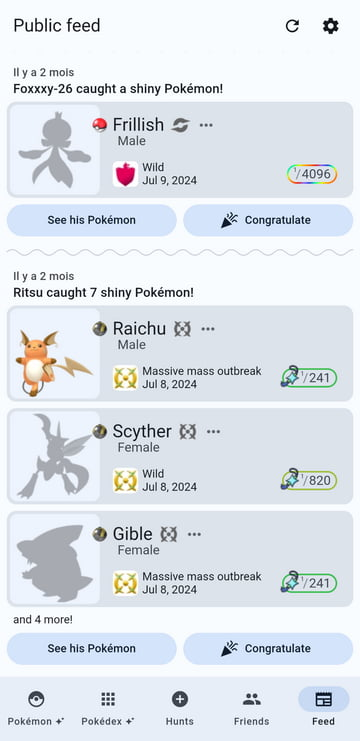
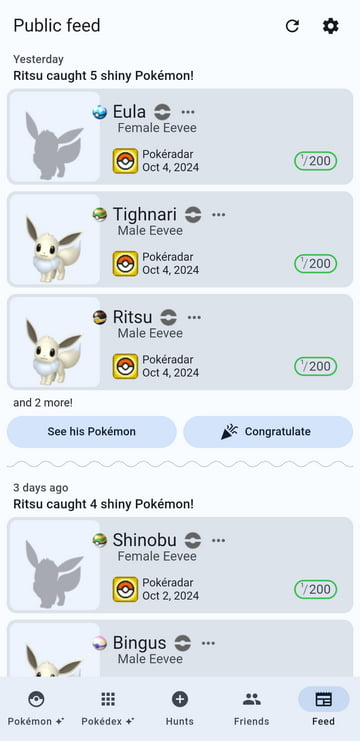
Fix public feed relative date translation

diff --git a/src/modules/components/feed-card/feedCard.ts b/src/modules/components/feed-card/feedCard.ts
@@ -105,12 +105,8 @@ export class feedCard extends HTMLElement {
 		card.appendChild(usernameContainer);
 
 		const dateContainer = document.createElement('time');
-		dateContainer.setAttribute('datetime', day);
 		dateContainer.setAttribute('slot', 'relative-date');
-		const relativeDate = formatRelativeNumberOfDays(
-			dateDifference(new Date(Date.now()), new Date(day))
-		);
-		dateContainer.innerHTML = relativeDate.slice(0, 1).toLocaleUpperCase() + relativeDate.slice(1);
+		this.populateRelativeDate(day, dateContainer);
 		card.appendChild(dateContainer);
 
 		const quantityContainer = document.createElement('span');
@@ -154,6 +150,14 @@ export class feedCard extends HTMLElement {
 	}
 
 
+	static populateRelativeDate(day: ISODay, container: HTMLElement, locale?: string) {
+		const numberOfDays = dateDifference(new Date(Date.now()), new Date(day));
+		container.setAttribute('datetime', day);
+		const relativeDate = formatRelativeNumberOfDays(numberOfDays, locale);
+		container.innerHTML = relativeDate.slice(0, 1).toLocaleUpperCase() + relativeDate.slice(1);
+	}
+
+
 	getRenderingComplete() {
 		return new Promise(resolve => {
 		  if (!this.rendering) return resolve(true);
@@ -176,6 +180,15 @@ export class feedCard extends HTMLElement {
 		switch (attr) {
 			case 'lang':
 				translationObserver.translate(this, newValue ?? '');
+
+				// We translate the relative date too
+				const dateContainer = this.querySelector('time');
+				if (dateContainer) {
+					const day: ISODay | null = dateContainer.getAttribute('datetime') as ISODay | null;
+					if (day) {
+						feedCard.populateRelativeDate(day, dateContainer, newValue ?? undefined);
+					}
+				}
 				break;
 
 			case 'type': {

diff --git a/src/modules/translation.ts b/src/modules/translation.ts
@@ -116,11 +116,11 @@ export const translationObserver = new TranslationObserver();
 
 /////////////////////////////////////////////////
 // Exprime de manière relative un nombre de jours
-export function formatRelativeNumberOfDays(days: number): string {
+export function formatRelativeNumberOfDays(days: number, locale: string = document.documentElement.lang ?? 'en'): string {
   if (days === 0) return getString('aujourdhui');
   if (days === -1) return getString('hier');
   if (days === 1) return getString('demain');
-  const formatter = new Intl.RelativeTimeFormat();
+  const formatter = new Intl.RelativeTimeFormat(locale);
   if (Math.abs(days) < 7)
     return formatter.format(days, "day");
   if (Math.abs(days) < 31)
